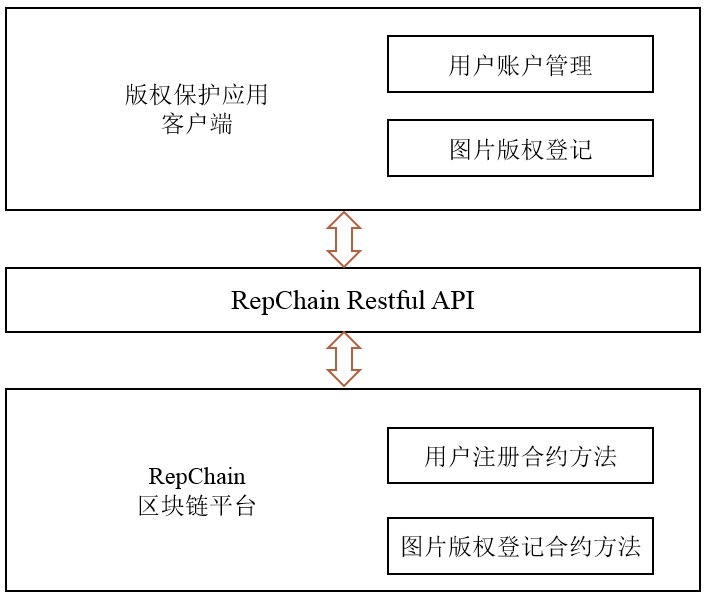
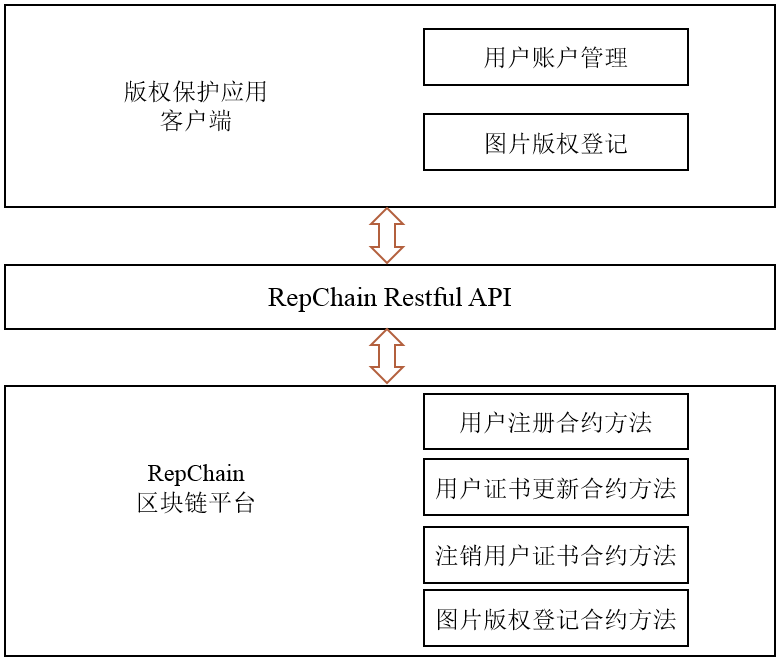
调整内容结构，更新版权应用系统结构图

Changed region(s): [[0.0, 0.0, 0.9958, 0.9966], [0.1556, 0.6946, 0.3734, 0.8758], [0.1556, 0.1208, 0.3734, 0.2416]]

diff --git a/source/第十一章 RepChain应用开发.rst b/source/第十一章 RepChain应用开发.rst
@@ -7,19 +7,17 @@ RepChain应用开发
 11.1.1 应用概况
 +++++++++++++++++++
 
-	基于RepChain的分布式图片版权保护应用，主要实现用户的区块链账户管理以及图片存证两大功能。
-	账户管理功能旨在让用户拥有自己的区块链密钥对以及证书，证书验证通过RepChain验证后，用户便可以发起存证交易。
-	图片存证功能将利用用户的私钥对图片存证交易做签名，若该图片在应用中为首次提交，应用将在区块链中成功登记图片版权，
-	否则返回提示信息该图片信息版权已在系统中注册过。
+	基于RepChain的分布式图片版权保护应用，主要实现用户的区块链账户管理以及图片存证两大功能。账户管理功能旨在让用户拥有自己的区块链密钥对以及证书，证书验证通过RepChain验证后，
+	用户便可以发起存证交易。图片存证功能将利用用户的私钥对图片存证交易做签名，若该图片在应用中为首次提交，应用将在区块链中成功登记图片版权，否则返回提示信息该图片信息版权已在系统中注册过。
 
 11.1.2 总体设计
 ++++++++++++++++++
 
 	**1). 需求概述**
 
-	本项目的开发目标，是构建基于区块链网络系统的图片版权保护应用系统。即实现不受特定中心化服务管理机构控制，
-	由联盟共建、共同维护的，能提供在线图片版权保护服务的应用系统。该目标应用系统，由应用客户端和区块链网络服务端构成，
-	其核心功能是为用户提供去中心化的图片版权记录操作相关服务，包括账户管理、图片版权登记以及图片版权授权记录服务。
+	本项目的开发目标，是构建基于区块链网络系统的图片版权保护应用系统。即实现不受特定中心化服务管理机构控制，由联盟共建、共同维护的，
+	能提供在线图片版权保护服务的应用系统。该目标应用系统，由应用客户端和区块链网络服务端构成，其核心功能是为用户提供去中心化的图片版权记录操作相关服务，
+	包括账户管理、图片版权登记以及图片版权授权记录服务。
 
 	应用系统总体交互流程如下：
 	
@@ -31,7 +29,7 @@ RepChain应用开发
    
 	a. 图片版权保护应用客户端面向用户，用户通过该应用程序提供的交互接口进行图片版权相关操作；
 	b. 图片版权保护应用客户端将用户的各项图片版权相关操作映射为对应的区块链transaction交易，并将该交易传递给底层区块链网络服务端；
-	c. 区块链网络对来自应用程序的交易transaction进行执行运算，最终形成防篡改的图片版权记录信息，并将结果状态返回给图片版权保护应用客户端，向用户显示结果；
+	c. 区块链网络对来自应用程序的交易transaction进行执行运算，最终形成防篡改的图片版权记录信息，并将结果状态返回给图片版权保护应用客户端，向用户显示结果。
 
 	**2). 系统架构**
 
@@ -42,20 +40,14 @@ RepChain应用开发
 	   :alt: 系统架构图
 
 	区块链代理节点使用p2p模式组网，节点间通过同步共识共同维护可信的登记和交易记录，节点利用C/S模式接收客户端的登记版权请求。
+	
 	当某个用户想登记版权时，利用客户端提供的版权登记功能提交一个请求，请求被代理节点接收并验证以后，广播到整个区块链网络中。
 	同时节点将把所有已上链存证的图片通过C/S模式推送给其他客户端，以便其查看所有已经登记了的图片。
 
 	**3). 系统模型如下：**
 
-	上述目标应用系统基于Nodejs及其相关开源组件进行客户端各功能模块的开发，其底层区块链网络基于已有的许可类型区块链平台RepChain来构建，
-	并使用javascript或者scala编写智能合约。该目标应用目前主要包括以下功能模块：
-
-
-	.. image:: ./images/chapter11/sys_module.png
-	   :height: 487
-	   :width: 1464
-	   :scale: 50
-	   :alt: 系统模型
+	上述目标应用系统基于Nodejs及其相关开源组件进行客户端各功能模块的开发，其底层区块链网络基于已有的许可类型区块链平台RepChain来构建，并使用javascript或者scala编写智能合约。
+	该目标应用目前主要包括以下功能模块：
 
         * 应用客户端：
 
@@ -65,8 +57,16 @@ RepChain应用开发
 	* 区块链网络服务端：
 
 		* 图片版权保护智能合约
-		* 用户注册方法
-		* 图片版权登记方法
+		
+			* 用户证书更新合约方法
+			* 注销用户证书合约方法
+			* 图片版权登记合约方法
+		
+	.. image:: ./images/chapter11/sys_module.png
+	   :height: 1206
+	   :width: 1426
+	   :scale: 50
+	   :alt: 系统模型
 
 	.. image:: ./images/chapter11/app_architecture.png
 	   :height: 749
